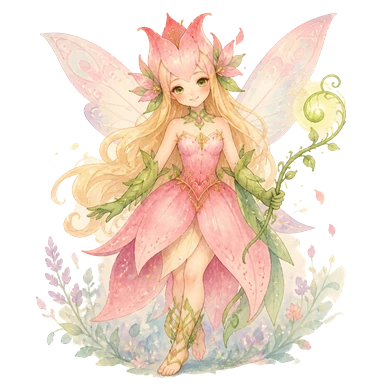
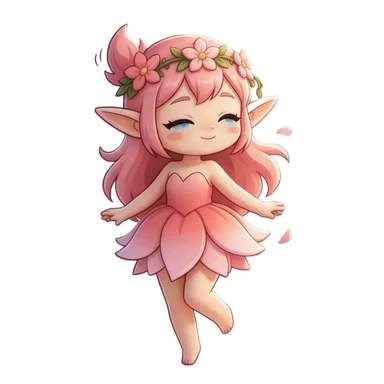
Lily animada no painel admin; rotas da Vercel; contraste dos blocos de código

diff --git a/src/components/AnimatedCompanion.tsx b/src/components/AnimatedCompanion.tsx
@@ -48,10 +48,13 @@ export const AnimatedCompanion = ({
   companion,
   className,
   alt,
+  clickClips,
 }: {
   companion: Companion;
   className?: string;
   alt?: string;
+  /** Emoções que tocam ao clicar (alternando). Sem isso, o companheiro só reage aos eventos da lição. */
+  clickClips?: ClipName[];
 }) => {
   const anim = getAnimation(companion.id);
   const calm = useCalmMotion();
@@ -60,6 +63,7 @@ export const AnimatedCompanion = ({
   const state = useRef({ clip: "parado" as ClipName, frame: 0, last: 0 });
   const visible = useRef(true);
   const [ready, setReady] = useState(false);
+  const clickTurn = useRef(0);
 
   // Desenha um quadro da emoção atual.
   const draw = () => {
@@ -150,36 +154,63 @@ export const AnimatedCompanion = ({
     // eslint-disable-next-line react-hooks/exhaustive-deps
   }, [anim, ready, calm]);
 
+  // Toca uma emoção (baixa a folha na hora, se ainda não tiver chegado).
+  const playClip = (clip: ClipName) => {
+    if (!anim || calm || !anim[clip]) return;
+    const play = () => {
+      state.current = { clip, frame: 0, last: 0 };
+      draw();
+    };
+    if (sheets.current[clip]) return play();
+    const url = sheetUrl(companion.id, clip);
+    if (!url) return;
+    const asked = performance.now();
+    loadSheet(url)
+      .then((img) => {
+        sheets.current[clip] = img;
+        if (performance.now() - asked < 1500) play(); // se demorar demais, já perdeu o sentido
+      })
+      .catch(() => undefined);
+  };
+
   // Reage aos eventos da lição.
   useEffect(() => {
     if (!anim) return;
     return onCompanionReaction((r) => {
-      if (calm) return;
       const clip = pickClip(anim, r);
-      if (!clip) return;
-      const play = () => {
-        state.current = { clip, frame: 0, last: 0 };
-        draw();
-      };
-      if (sheets.current[clip]) return play();
-      // Ainda não baixou: toca assim que chegar, se for logo (senão já perdeu o sentido).
-      const url = sheetUrl(companion.id, clip);
-      if (!url) return;
-      const asked = performance.now();
-      loadSheet(url)
-        .then((img) => {
-          sheets.current[clip] = img;
-          if (performance.now() - asked < 1500) play();
-        })
-        .catch(() => undefined);
+      if (clip) playClip(clip);
     });
     // eslint-disable-next-line react-hooks/exhaustive-deps
   }, [anim, calm, companion.id]);
 
+  const onClick =
+    clickClips && clickClips.length
+      ? () => {
+          if (state.current.clip !== "parado") return; // deixa terminar a reação atual
+          playClip(clickClips[clickTurn.current++ % clickClips.length]);
+        }
+      : undefined;
+
   if (!anim) return null;
 
   return (
-    <span className={cn("relative inline-block", className)} role="img" aria-label={alt ?? companion.name}>
+    <span
+      className={cn("relative inline-block", onClick && !calm && "cursor-pointer", className)}
+      role={onClick ? "button" : "img"}
+      tabIndex={onClick ? 0 : undefined}
+      aria-label={alt ?? companion.name}
+      onClick={onClick}
+      onKeyDown={
+        onClick
+          ? (e) => {
+              if (e.key === "Enter" || e.key === " ") {
+                e.preventDefault();
+                onClick();
+              }
+            }
+          : undefined
+      }
+    >
       {!ready && (
         <img src={companion.img} alt="" aria-hidden decoding="async" draggable={false} className="absolute inset-0 w-full h-full object-contain" />
       )}

diff --git a/src/pages/Admin.tsx b/src/pages/Admin.tsx
@@ -18,7 +18,8 @@ import { motion } from "framer-motion";
 import ThemeToggle from "@/components/ThemeToggle";
 import PasswordInput from "@/components/PasswordInput";
 import AuroraBackground from "@/components/AuroraBackground";
-import adminCompanion from "@/assets/companion-admin-lily.webp";
+import { adminCompanion } from "@/lib/companions";
+import AnimatedCompanion from "@/components/AnimatedCompanion";
 import { codeyIslands, codeyLessons } from "@/data/codeyContent";
 
 type AdminUser = {
@@ -134,20 +135,15 @@ const AdminPanel = ({ adminName, onLogout }: { adminName: string; onLogout: () =
         >
           <Card className="relative overflow-hidden p-5 sm:p-6 border-primary/20 bg-gradient-to-br from-primary/10 via-secondary/10 to-accent/10">
             <div className="flex flex-col sm:flex-row items-center gap-5">
-              <motion.div
-                animate={{ y: [0, -8, 0] }}
-                transition={{ duration: 4, repeat: Infinity, ease: "easeInOut" }}
-                className="relative flex-shrink-0"
-              >
+              <div className="relative flex-shrink-0" title="Toque na Lily ✿">
                 <div className="absolute inset-0 bg-secondary/40 blur-2xl rounded-full" />
-                <img
-                  src={adminCompanion}
+                <AnimatedCompanion
+                  companion={adminCompanion}
+                  clickClips={["pensando", "assustada"]}
                   alt="Lily, sua companheira admin"
-                  width={160}
-                  height={160}
-                  className="relative w-32 h-32 sm:w-40 sm:h-40 object-contain drop-shadow-lg"
+                  className="relative w-32 h-32 sm:w-40 sm:h-40 drop-shadow-lg"
                 />
-              </motion.div>
+              </div>
               <div className="flex-1 text-center sm:text-left space-y-2">
                 <div className="flex items-center justify-center sm:justify-start gap-2">
                   <Sparkles className="w-4 h-4 text-accent" />

diff --git a/src/test/animations.test.ts b/src/test/animations.test.ts
@@ -1,6 +1,6 @@
 import { describe, it, expect } from "vitest";
 import { ANIMATIONS, getAnimation, pickClip, sheetUrl, type ClipName } from "@/lib/companionAnimations";
-import { companionList } from "@/lib/companions";
+import { adminCompanion, companionList } from "@/lib/companions";
 import { onCompanionReaction, reactCompanion } from "@/lib/companion-reaction";
 
 describe("escolha da emoção", () => {
@@ -29,8 +29,8 @@ describe("escolha da emoção", () => {
 });
 
 describe("registro de animações", () => {
-  it("todo companheiro com animação existe no catálogo, e o Codey segue estático", () => {
-    const ids = companionList.map((c) => c.id);
+  it("todo companheiro com animação existe no catálogo (ou é a Lily do admin), e o Codey segue estático", () => {
+    const ids = [...companionList.map((c) => c.id), adminCompanion.id];
     Object.keys(ANIMATIONS).forEach((id) => expect(ids).toContain(id));
     expect(getAnimation("codey")).toBeNull();
   });
@@ -43,6 +43,27 @@ describe("registro de animações", () => {
   it("só o 'parado' fica em loop", () => {
     for (const anim of Object.values(ANIMATIONS))
       for (const [clip, meta] of Object.entries(anim)) expect(meta!.loop).toBe(clip === "parado");
+  });
+});
+
+describe("Lily (admin)", () => {
+  it("não aparece na escolha de companheiro da criança", () => {
+    expect(companionList.map((c) => c.id)).not.toContain("lily");
+  });
+
+  it("tem parado em loop e as emoções do clique", () => {
+    const lily = getAnimation("lily")!;
+    expect(lily.parado.loop).toBe(true);
+    expect(lily.pensando).toBeTruthy();
+    expect(lily.assustada).toBeTruthy();
+  });
+
+  it("nos eventos da lição, nunca usa triste nem assustada", () => {
+    const lily = getAnimation("lily")!;
+    for (const r of ["acerto", "erro", "erro-seguido", "fim"] as const) {
+      expect(pickClip(lily, r)).not.toBe("triste");
+      expect(pickClip(lily, r)).not.toBe("assustada");
+    }
   });
 });
 

diff --git a/src/lib/companionAnimations.ts b/src/lib/companionAnimations.ts
@@ -8,7 +8,7 @@
  * Nada mais precisa mudar: o jogo passa a usar a emoção sozinho (ver pickClip).
  */
 
-export type ClipName = "parado" | "feliz" | "calminho" | "pensando" | "tonto" | "triste";
+export type ClipName = "parado" | "feliz" | "calminho" | "pensando" | "tonto" | "triste" | "assustada";
 
 export type ClipMeta = { frames: number; cols: number; size: number; fps: number; loop: boolean };
 
@@ -46,6 +46,14 @@ export const ANIMATIONS: Record<string, CompanionAnimation> = {
     feliz: { frames: 28, cols: 8, size: 200, fps: 12, loop: false },
     parado: { frames: 24, cols: 8, size: 200, fps: 12, loop: true },
     calminho: { frames: 18, cols: 8, size: 200, fps: 12, loop: false },
+  },
+  // Lily: companheira exclusiva do painel admin (não aparece na escolha da criança).
+  // parado = trecho "feliz" do vídeo em vai-e-volta; ao clicar alterna pensando/assustada; triste fica guardada.
+  lily: {
+    parado: { frames: 54, cols: 8, size: 200, fps: 12, loop: true },
+    pensando: { frames: 18, cols: 8, size: 200, fps: 12, loop: false },
+    assustada: { frames: 20, cols: 8, size: 200, fps: 12, loop: false },
+    triste: { frames: 56, cols: 8, size: 200, fps: 12, loop: false },
   },
 };
 

diff --git a/src/lib/companions.ts b/src/lib/companions.ts
@@ -8,6 +8,7 @@ import companionMusgo from "@/assets/companion-musgo.webp";
 import companionMarola from "@/assets/companion-marola.webp";
 import companionAstro from "@/assets/companion-astro.webp";
 import mascotImg from "@/assets/codey-mascot.webp";
+import lilyImg from "@/assets/companion-admin-lily.webp";
 
 export type Companion = {
   /** chave estável (usada nas animações: src/assets/anim/<id>-<emoção>.webp) */
@@ -82,6 +83,16 @@ export const companionList: Companion[] = [
 
 // Usado quando ainda não há companheiro escolhido (ou o índice salvo é inválido).
 export const fallbackCompanion: Companion = companionList[6];
+
+/** Companheira exclusiva do painel admin. Fica FORA de companionList: a criança não a escolhe. */
+export const adminCompanion: Companion = {
+  id: "lily",
+  img: lilyImg,
+  name: "Lily",
+  desc: "Fadinha das flores que cuida do jardim do Codey junto com você.",
+  celebrate: ["Tudo florescendo por aqui ✿"],
+  encourage: ["Calma, a gente arruma isso juntas."],
+};
 
 export const isValidCompanionIndex = (index: unknown): index is number =>
   typeof index === "number" && Number.isInteger(index) && index >= 0 && index < companionList.length;

diff --git a/src/index.css b/src/index.css
@@ -48,7 +48,8 @@
     --codey-sky: 200 50% 70%;
     --codey-cream: 40 30% 95%;
     --codey-night: 220 30% 18%;
-        --code-bg: 220 30% 18%;
+    /* Blocos de código: cores próprias (não reaproveitar --primary-foreground, que inverte no tema escuro) */
+    --code-bg: 220 30% 18%;
     --code-fg: 40 30% 96%;
 
     --gradient-hero: linear-gradient(135deg, hsl(175 45% 45% / 0.15), hsl(270 30% 75% / 0.15), hsl(35 70% 60% / 0.1));
@@ -171,7 +172,7 @@
     background-clip: text;
   }
   .prose-codey pre {
-     background: hsl(var(--code-bg));
+    background: hsl(var(--code-bg));
     color: hsl(var(--code-fg));
     border: 1px solid hsl(var(--border));
     border-radius: 1rem;
